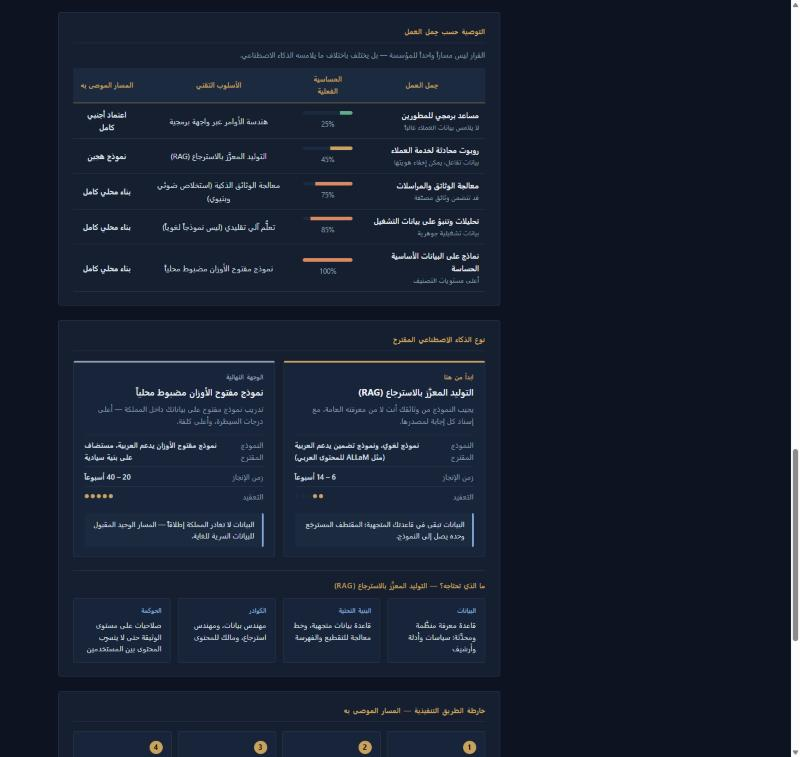
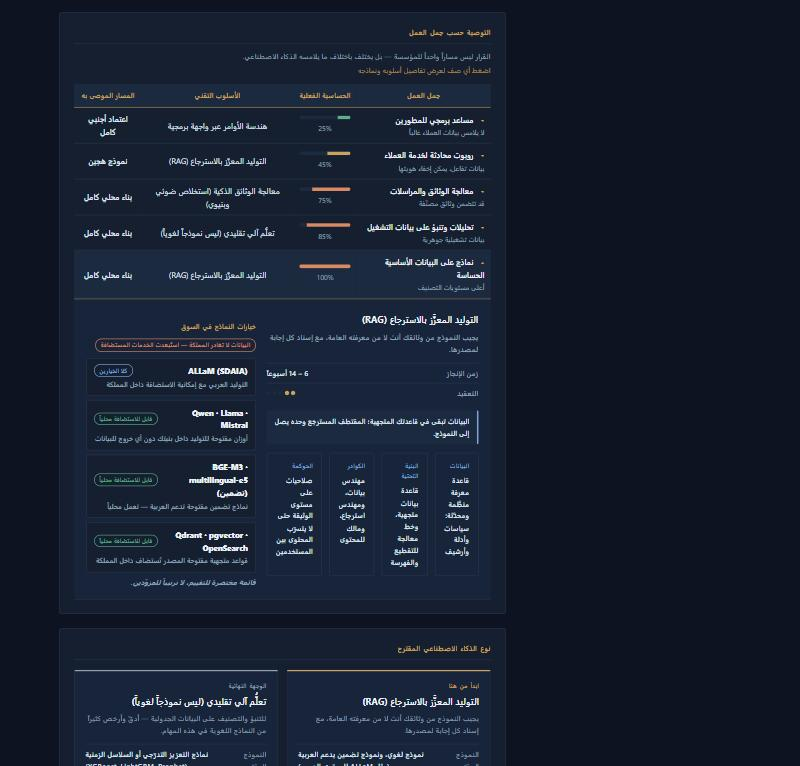
Rebrand to Bawsala and document the scored, interactive technique selection
The technique is now scored per workload against budget, team depth, sector
and residency rather than read off a fixed map, and each workload row expands
to its own requirements and a residency-filtered model shortlist.

Changed region(s): [[0.0938, 0.0304, 0.625, 1.0], [0.9688, 0.0, 1.0, 1.0]]

diff --git a/README.md b/README.md
@@ -1,5 +1,5 @@
-# Strategic AI Readiness Simulator
-### محاكي الجاهزية الاستراتيجية للذكاء الاصطناعي
+# Bawsala · بوصلة
+### Strategic AI Readiness Simulator — محاكي الجاهزية الاستراتيجية للذكاء الاصطناعي
 
 > A strategic decision-support simulator that helps Saudi organizations choose an AI adoption path — balancing cost, execution speed, and digital sovereignty — then tells them which AI technique to use, what it requires, and produces a board-ready decision memorandum and deck.
 
@@ -37,7 +37,9 @@ The simulator's central argument: an organization does not pick one path. The ri
 | Operational analytics | high | **Classical ML — not an LLM** | Sovereign |
 | Core sensitive data | highest | Locally fine-tuned open-weight model | Sovereign |
 
-For the recommended technique it then states exactly what the organization needs across **data, infrastructure, team, and governance**, plus the suggested model class, lead time, and how that technique interacts with data residency.
+Nothing here is a fixed lookup. The technique is **scored per workload** against the organization's own constraints — budget capacity, team depth, sector tilt and the residency requirement — so a small entity on a tight budget is steered away from techniques it cannot staff, while a well-funded enterprise is pushed deeper.
+
+**Select any workload row** and it expands in place to show that workload's technique, its lead time and complexity, what it requires across **data, infrastructure, team and governance**, and a shortlist of **named models available on the market**. Where the workload's data may not leave the Kingdom, hosted services are filtered out of that shortlist automatically and the exclusion is stated — so the same table recommends Claude or GPT for a coding assistant and ALLaM, Qwen or Llama for core classified data.
 
 ## Risk and compliance | المخاطر والامتثال
 
@@ -70,7 +72,8 @@ Both export in **Arabic or English**, in **Saudi Riyal or US Dollar**, with corr
 **Risk, compliance and execution**
 - Detailed five-dimension risk map.
 - Regulatory compliance matrix with a per-path compliance percentage.
-- Per-workload technique recommendation with data, infrastructure, team and governance requirements.
+- Per-workload technique recommendation, scored against the organization's constraints, with requirements and a named-model shortlist filtered by data residency.
+- Expandable workload rows — each reveals its own technique, requirements and model options in place.
 - Four-phase implementation roadmap specific to the recommended path.
 
 **Experience**
